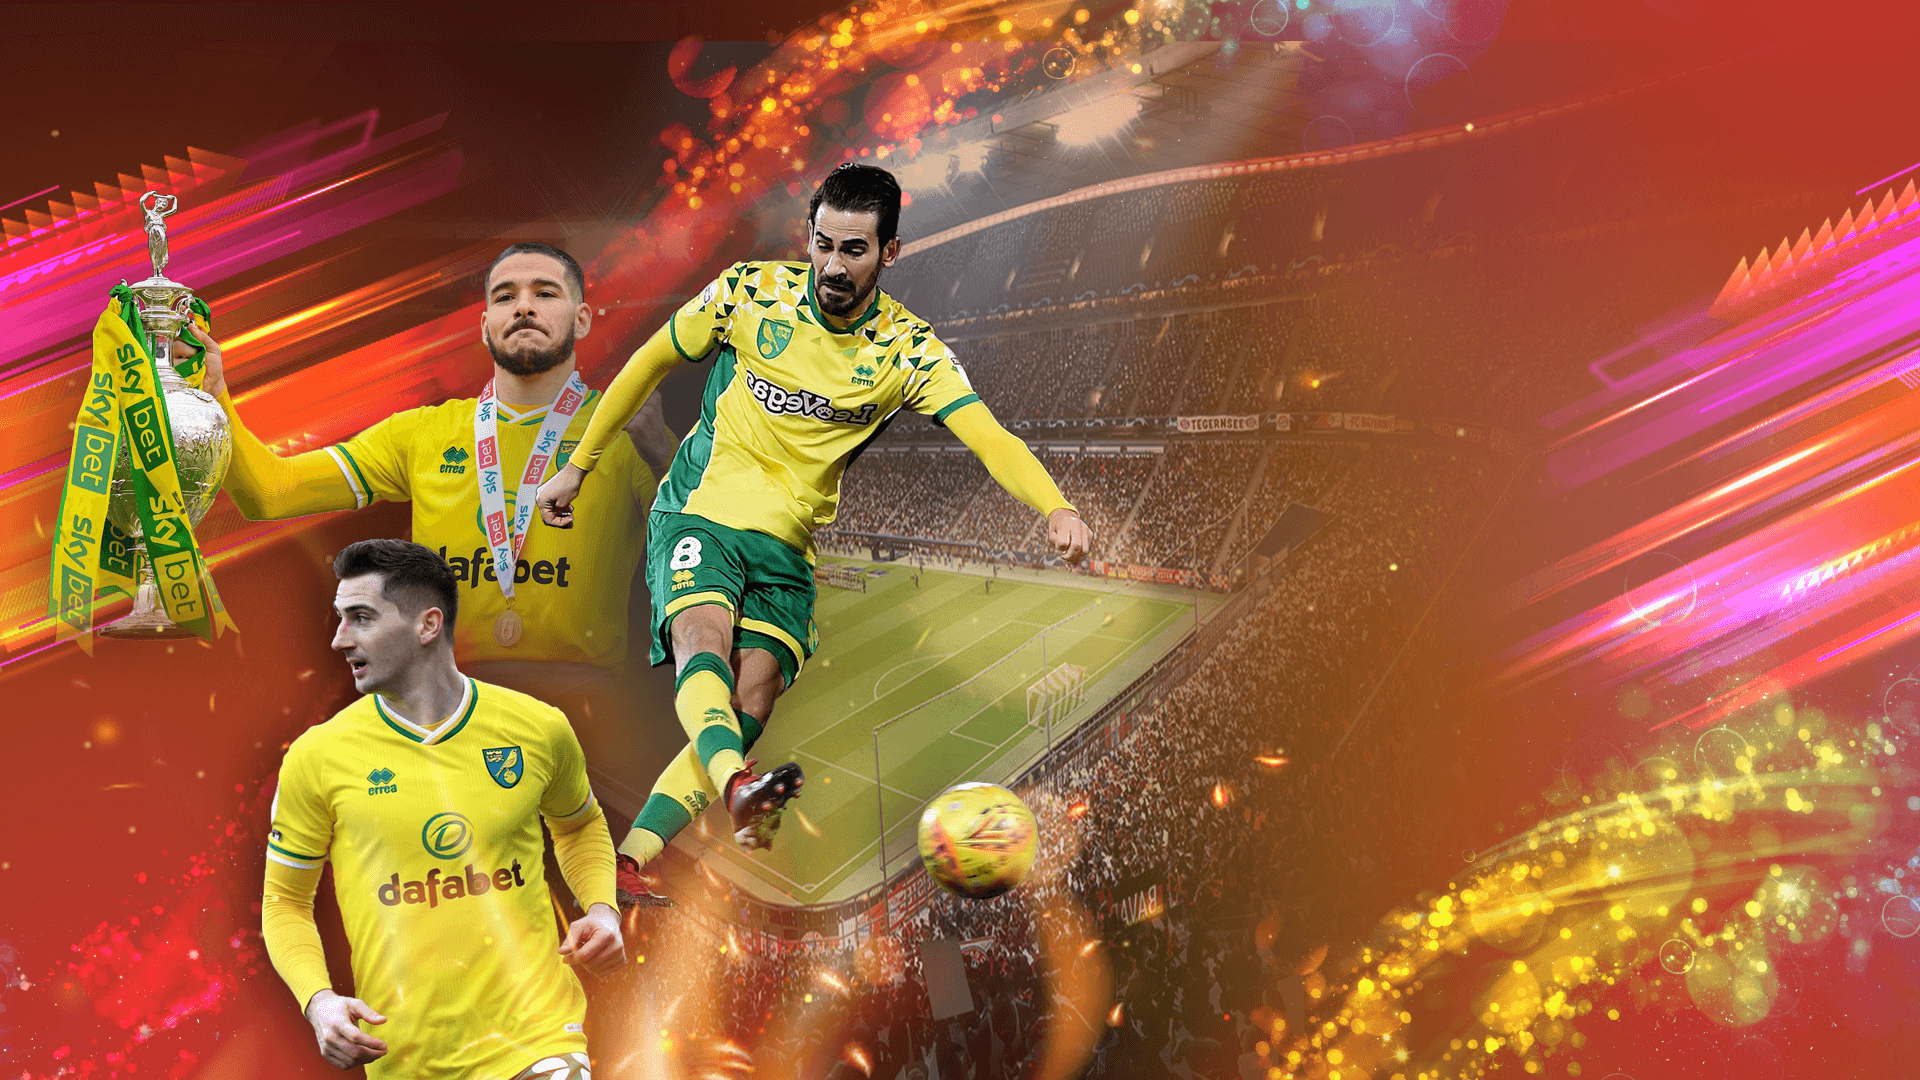
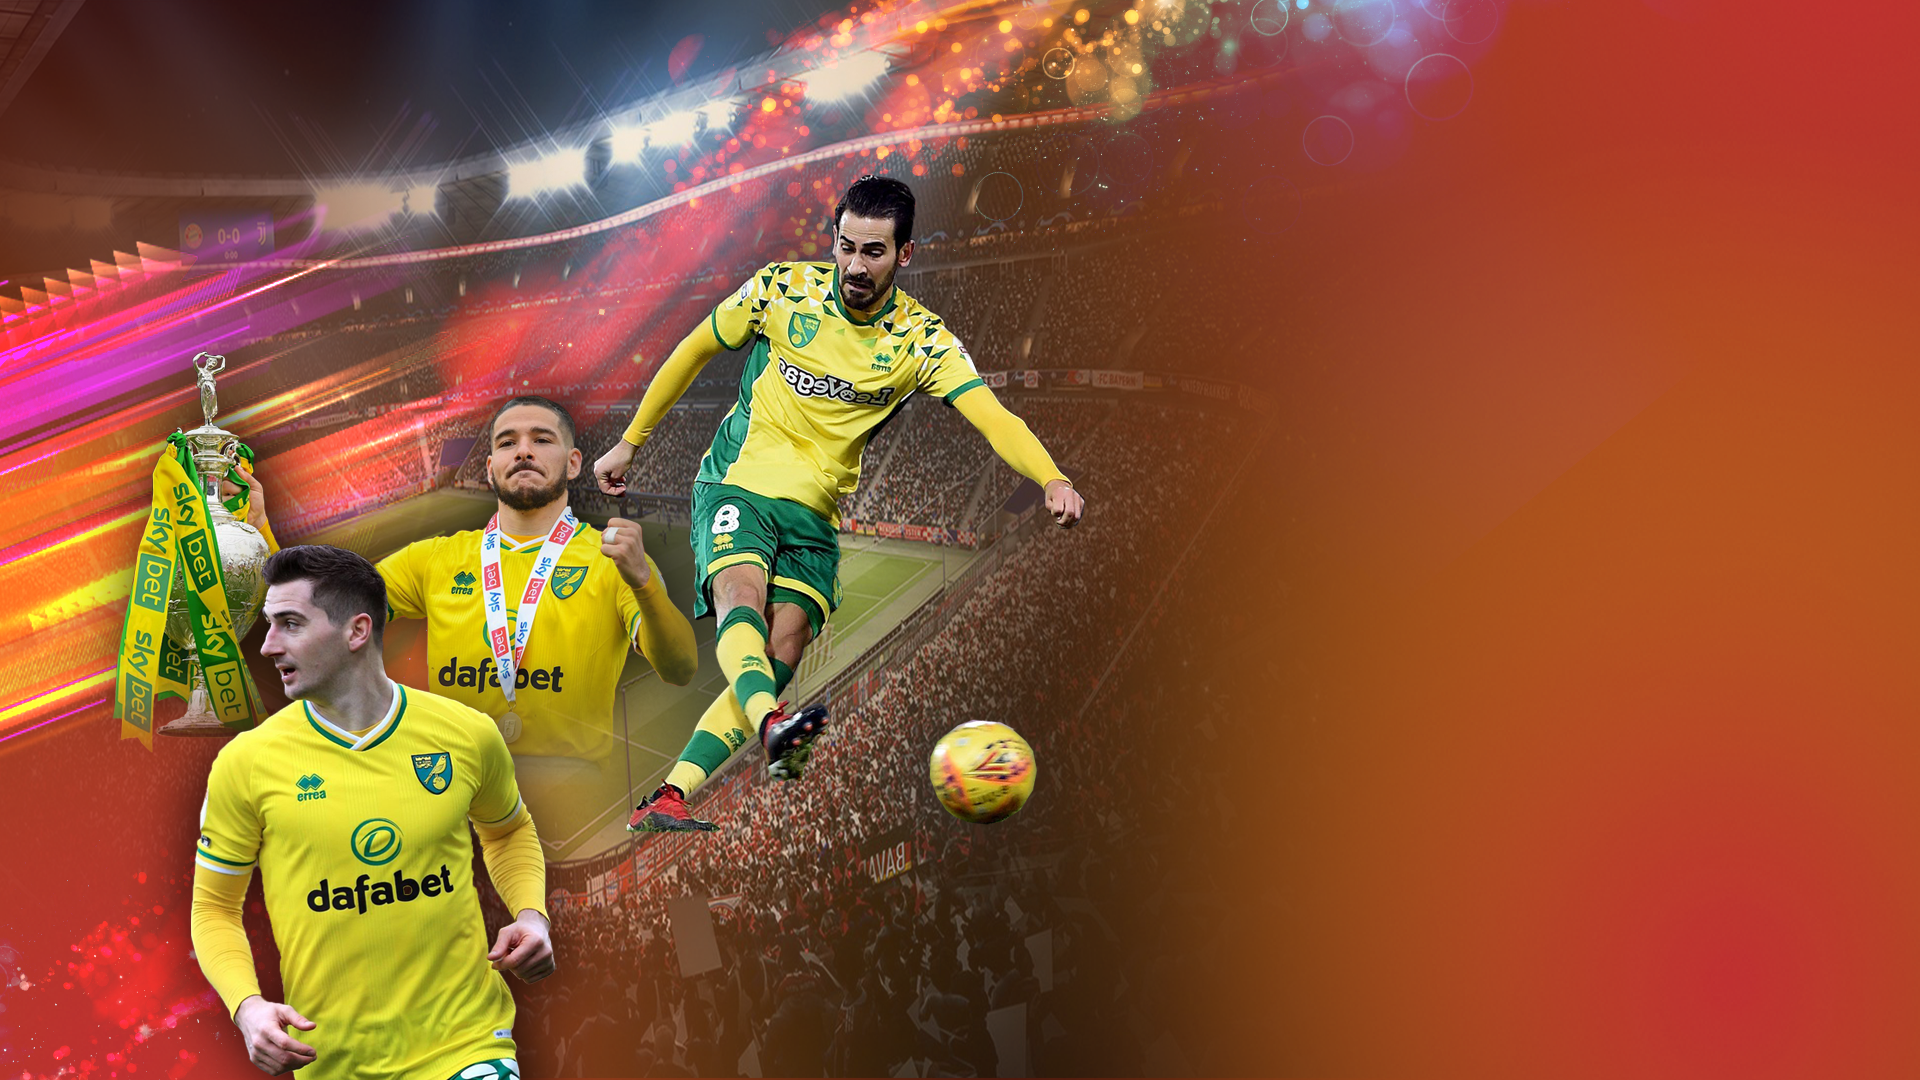
第二次改版

diff --git a/index.html b/index.html
@@ -10,17 +10,15 @@
 </head>
 <body>
     <div class="login--Bg">
-       
-            <div class="login__area offset-xl-5 col-xl-6 offset-lg-3 col-lg-7 col-md-7 offset-md-4">
+        <div class="login__text d-lg-flex d-none">
+            <img src="images/text_1.png" alt="">
+         </div>
+            <div class="login__area offset-xl-7 col-xl-5 offset-lg-6 col-lg-6 col-12">
                 <div class="login__top">
                     <div class="login--logo">
                         <img src="images/logo.png" alt="">
                     </div>
-                    <div class="login__text">
-                       <img src="images/text_1.png" alt="">
-                        <p class="login--point"><img src="images/text_2.png" alt=""></p> 
-                       <img src="images/text_3.png" alt="">
-                    </div>
+                   
                 </div>
                 
                 <div class="login__box">
@@ -36,8 +34,8 @@
                       <div class="tab-content">
                         <div class="tab-pane fade" id="home">
                             <ul class="login__form">
-                                <li><input type="text" placeholder="帳號"></li>
-                                <li><input type="text" placeholder="密碼"></li>
+                                <li><input type="text" placeholder="Tên đăng nhập"></li>
+                                <li><input type="text" placeholder="Mật khẩu"></li>
                             </ul>
                             <button class="login--btn">
                                submit
@@ -45,10 +43,10 @@
                         </div>
                         <div class="tab-pane  active" id="menu1">
                             <ul class="login__form">
-                                <li><input type="text" placeholder="帳號"></li>
-                                <li><input type="text" placeholder="密碼"></li>
-                                <li><input type="text" placeholder="再次輸入密碼"></li>
-                                <li><input type="text" placeholder="電話號碼"></li>
+                                <li><input type="text" placeholder="Tên đăng nhập"></li>
+                                <li><input type="text" placeholder="Mật khẩu"></li>
+                                <li><input type="text" placeholder="Nhập lại mật khẩu"></li>
+                                <li><input type="text" placeholder="Số điện thoại"></li>
                             </ul>
                             <button class="login--btn">
                                <img src="images/text_submit.png" alt="">
@@ -57,13 +55,17 @@
                        
                       </div>
                     
-                   
+                      <div class="login__text">
+                        <!-- <img src="images/text_1.png" alt=""> -->
+                      
+                      </div>
                 </div>
-                <div class="login__text2">
-                    <img src="images/text_4.png" alt="">
-                   <p class="login--point2"> <img src="images/text_5.png" alt=""></p>
-                  </div>
+             
             </div>
+            <div class="login__text2">
+               <img src="images/text_1.png" alt="" class="d-lg-none d-block">
+                <img src="images/text_2.png" alt="">
+             </div>
             <div class="login--socer">
                 <img src="images/loginbg_mobileMen.png" alt="">
             </div>

diff --git a/style.css b/style.css
@@ -57,7 +57,12 @@ input:focus {
   -ms-flex-wrap: wrap;
       flex-wrap: wrap;
 }
-@media only screen and (max-width: 767px) {
+@media only screen and (max-width: 1024px) {
+  .login--Bg {
+    background-position: 15% bottom;
+  }
+}
+@media only screen and (max-width: 991px) {
   .login--Bg {
     background-image: url("images/loginbg_mobile.png");
   }
@@ -385,27 +390,44 @@ input:focus {
   outline: none;
 }
 .login__text {
-  padding: 0 10%;
+  position: absolute;
+  margin-top: 3%;
+  margin-left: 8%;
 }
-@media only screen and (max-width: 480px) {
+@media only screen and (max-width: 1199px) {
   .login__text {
-    margin-bottom: 5px;
+    margin-left: 3%;
+  }
+}
+@media only screen and (max-width: 1366px) {
+  .login__text {
+    margin-top: 10%;
+    margin-left: 3%;
   }
 }
 .login__text img {
   max-width: 420px;
-  margin-bottom: 5px;
+  width: 100%;
+  margin: 5px 0;
 }
-@media only screen and (max-width: 414px) {
+@media only screen and (max-width: 1024px) {
   .login__text img {
-    max-width: 360px;
-    margin-bottom: 0px;
+    max-width: 380px;
   }
 }
-@media only screen and (max-width: 414px) {
-  .login__text img {
-    max-width: 300px;
-  }
+.login__text2 {
+  display: -webkit-box;
+  display: -ms-flexbox;
+  display: flex;
+  -webkit-box-align: start;
+      -ms-flex-align: start;
+          align-items: flex-start;
+  -webkit-box-pack: end;
+      -ms-flex-pack: end;
+          justify-content: flex-end;
+  position: absolute;
+  margin-left: 20%;
+  bottom: 10%;
 }
 @media only screen and (max-width: 1024px) {
   .login__text2 {
@@ -417,14 +439,54 @@ input:focus {
     -webkit-box-pack: center;
         -ms-flex-pack: center;
             justify-content: center;
-  }
-  .login__text2 img {
-    max-width: 100%;
+    margin-left: 15%;
   }
 }
-@media only screen and (max-width: 414px) {
+@media only screen and (max-width: 991px) {
+  .login__text2 {
+    -ms-flex-wrap: nowrap;
+        flex-wrap: nowrap;
+    -webkit-box-align: center;
+        -ms-flex-align: center;
+            align-items: center;
+    margin-left: 0px;
+    padding: 0 10px;
+    bottom: 0px;
+    position: relative;
+    width: 100%;
+  }
+}
+@media only screen and (max-width: 480px) {
   .login__text2 {
     padding: 0 5%;
+    -ms-flex-wrap: wrap;
+        flex-wrap: wrap;
+  }
+}
+.login__text2 img {
+  max-width: 450px;
+}
+@media only screen and (max-width: 1366px) {
+  .login__text2 img {
+    max-width: 450px;
+  }
+}
+@media only screen and (max-width: 1024px) {
+  .login__text2 img {
+    max-width: 380px;
+  }
+}
+@media only screen and (max-width: 991px) {
+  .login__text2 img {
+    padding: 0 5px;
+    max-width: 50%;
+  }
+}
+@media only screen and (max-width: 480px) {
+  .login__text2 img {
+    max-width: 240px;
+    margin-bottom: 10px;
+    width: 100%;
   }
 }
 .login--point {
@@ -468,7 +530,7 @@ input:focus {
 .login--socer {
   display: none;
 }
-@media only screen and (max-width: 767px) {
+@media only screen and (max-width: 991px) {
   .login--socer {
     display: -webkit-box;
     display: -ms-flexbox;

diff --git a/style.scss b/style.scss
@@ -67,7 +67,10 @@ input{
       background-image: url('images/loginbg.png');
       align-content: stretch;
       flex-wrap: wrap;
-      @include rwdw(767){
+      @include rwdw(1024){
+        background-position: 15% bottom;
+      }
+      @include rwdw(991){
         background-image: url('images/loginbg_mobile.png');
       }
       &::-webkit-scrollbar{
@@ -352,34 +355,84 @@ input{
     }
   }
   &__text{
-    padding:0 10%;
-    @include rwdw(480){
-      margin-bottom: 5px;
+    // padding:0 10%;
+    position: absolute;
+    margin-top:3%;
+    margin-left:8%;
+    @include rwdw(1199){
+      margin-left:3%;
+      // margin-bottom: 5px;
     }
+    @include rwdw(1366){
+      margin-top:10%;
+      margin-left:3%;
+      // margin-bottom: 5px;
+    }
+   
     img{
       max-width: 420px;
-      margin-bottom: 5px;
-      @include rwdw(414){
-        max-width: 360px;
-        margin-bottom: 0px;
+      width: 100%;
+      margin: 5px 0;
+      @include rwdw(1024){
+        max-width: 380px;
       }
-      @include rwdw(414){
-        max-width: 300px;
+      // @include rwdw(414){
+      //   max-width: 360px;
+      //   margin-bottom: 0px;
+      // }
+      // @include rwdw(414){
+      //   max-width: 300px;
         
-      }
+      // }
     }
   }
   &__text2{
+    display: flex;
+    align-items: flex-start;
+    justify-content: flex-end;
+    position: absolute;
+    margin-left: 20%;
+    bottom: 10%;
+    @include rwdw(1366){
+
+    }
     @include rwdw(1024){
       display: flex;
       flex-wrap: wrap;
       justify-content: center;
-      img{
-        max-width: 100%;
-      }
+      margin-left: 15%;
     }
-    @include rwdw(414){
+    @include rwdw(991){
+      flex-wrap: nowrap;
+      align-items: center;
+      margin-left: 0px;
+      padding:0 10px;
+      bottom:0px;
+      position: relative;
+      width: 100%;
+  
+    }
+    @include rwdw(480){
       padding:0 5%;
+      flex-wrap: wrap;
+    }
+    img{
+      max-width: 450px;
+      @include rwdw(1366){
+        max-width: 450px;
+      }
+      @include rwdw(1024){
+        max-width: 380px;
+      }
+      @include rwdw(991){
+        padding:0 5px;
+        max-width: 50%;
+      }
+      @include rwdw(480){
+        max-width: 240px;
+        margin-bottom: 10px;
+        width:100%;
+      }
     }
   }
   &--point{
@@ -412,11 +465,11 @@ input{
   }
   &--socer{
     display: none;
-    @include rwdw(767){
+    @include rwdw(991){
       display: flex;
 
       align-items: flex-end;
-
+    
     }
     img{
       width: 100%;
